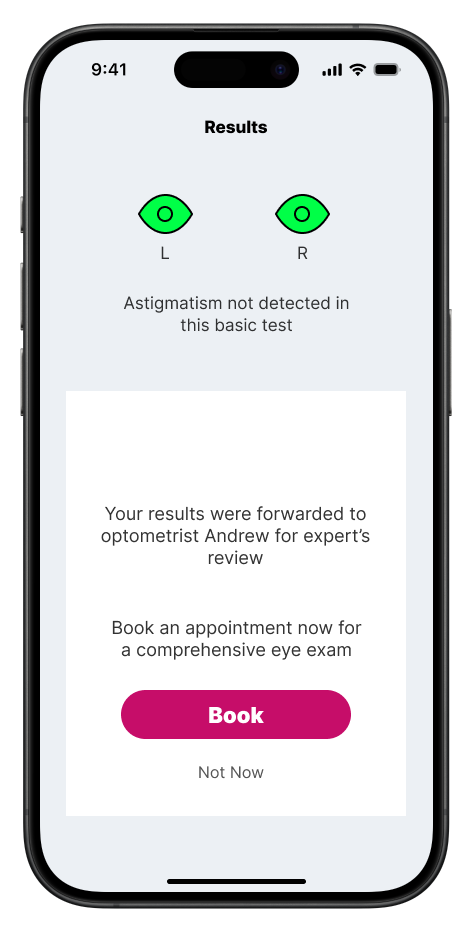
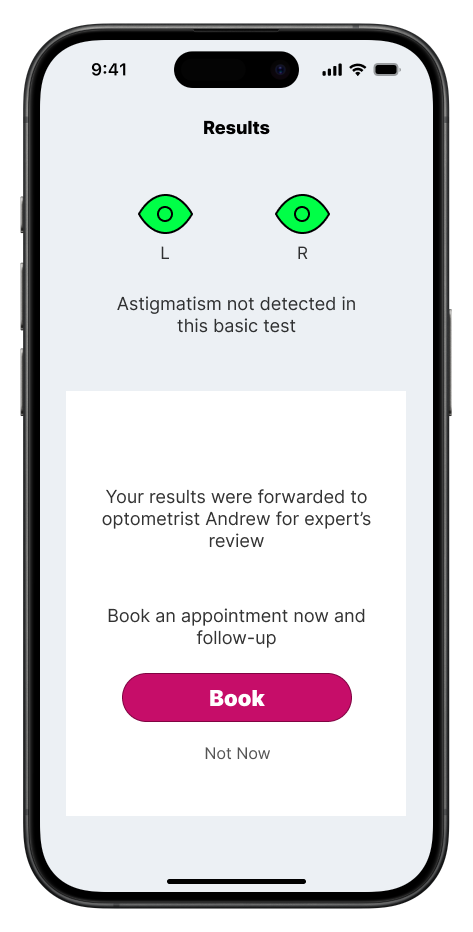
Your commit message describing the changes

diff --git a/src/app/page.js b/src/app/page.js
@@ -22,7 +22,7 @@ export default function Home() {
                 increasing bookings for your practice
               </p>
               <div className="sm:w-1/2 lg:w-1/2 w-3/4 mt-8 ">
-                <h1 className="bg-[#C60D69] px-2 py-1 text-center rounded-sm text-white sm:px-3 sm:py-2  md:px-4 md:py-2  lg:px-4  text-2xl font-bold">
+                <h1 className="bg-[#C60D69] px-2 py-1 text-center rounded-xl text-white sm:px-3 sm:py-2  md:px-4 md:py-2  lg:px-4  text-2xl font-bold">
                   Launching Soon
                 </h1>
               </div>
@@ -43,7 +43,7 @@ export default function Home() {
             <div className="flex flex-col justify-between items-center sm:w-full gap-2 sm:gap-3 md:gap-4 lg:gap-5 xl:gap-6 2xl:gap-7 mt-5 sm:mt-7 md:mt-10 lg:mt-12 xl:mt-15">
               <h1 className="text-3xl sm:text-4xl md:text-4xl lg:text-5xl text-center font-black text-gray-700 p-2 flex justify-center gap-4">
                 About{" "}
-                <span className="text-[#C60D69] border-2 border-[#C60D69] px-2 rounded-xl text-2xl sm:text-3xl md:text-4xl text-center inline-block w-full">
+                <span className="text-[#C60D69] border-2 border-[#C60D69] px-2 rounded-2xl text-2xl sm:text-3xl md:text-4xl text-center inline-block w-full">
                   EyeScreen
                 </span>
               </h1>
@@ -68,8 +68,8 @@ export default function Home() {
                 />
                 <div className="flex justify-center items-center bg-transparent w-full gap-2 p-2 border-2 rounded-xl">
                   <p className="text-sm sm:text-base md:text-lg lg:text-xl text-start text-gray-700 font-medium whitespace-pre-line w-full">
-                    We achieve this by offering a simple, fun and non-diagnostic
-                    eye pre-screen on your website
+                    We achieve this by offering fun quizzes and simple and
+                    non-diagnostic eye pre-screen on your website
                   </p>
                 </div>
               </div>
@@ -81,8 +81,8 @@ export default function Home() {
                 />
                 <div className="flex justify-center items-center bg-transparent w-full gap-2 p-2 border-2 rounded-xl">
                   <p className="text-sm sm:text-base md:text-lg lg:text-xl text-start text-gray-700 font-medium whitespace-pre-line w-full">
-                    After the pre-screen we encourage every participant to book
-                    a comprehensive eye test with your practice
+                    We send the user`s results to you and encourage the user to book
+                    a follow-up
                   </p>
                 </div>
               </div>
@@ -94,8 +94,8 @@ export default function Home() {
                 />
                 <div className="flex justify-center items-center bg-transparent w-full gap-2 p-2 border-2 rounded-xl">
                   <p className="text-sm sm:text-base md:text-lg lg:text-xl text-start text-gray-700 font-medium whitespace-pre-line w-full">
-                    The platform comes with a optional booking platform that
-                    connects to your calender
+                    The platform comes with a booking platform that connects to
+                    your calender
                   </p>
                 </div>
               </div>

diff --git a/src/components/Navbar.js b/src/components/Navbar.js
@@ -5,7 +5,7 @@ import Link from "next/link";
 
 const Navbar = () => {
   return (
-    <nav className="w-full pt-4 text-center">
+    <nav className="w-full pt-4 flex justify-center items-center">
       <Link href="/">
         <Image
           src="/images/agentic-vision-logo.png"
@@ -15,6 +15,11 @@ const Navbar = () => {
           className="inline-block cursor-pointer"
         />
       </Link>
+      <div className="w-auto h-auto">
+        <span className="text-[#C60D69] border-2 border-[#C60D69] px-2 rounded-xl text-sm font-bold text-center inline-block w-auto">
+          EyeScreen
+        </span>
+      </div>
     </nav>
   );
 };

diff --git a/src/app/layout.js b/src/app/layout.js
@@ -15,8 +15,8 @@ const geistMono = localFont({
 });
 
 export const metadata = {
-  title: "Create Next App",
-  description: "Generated by create next app",
+  title: "EyeScreen",
+  description: "EyeScreen",
 };
 
 export default function RootLayout({ children }) {
